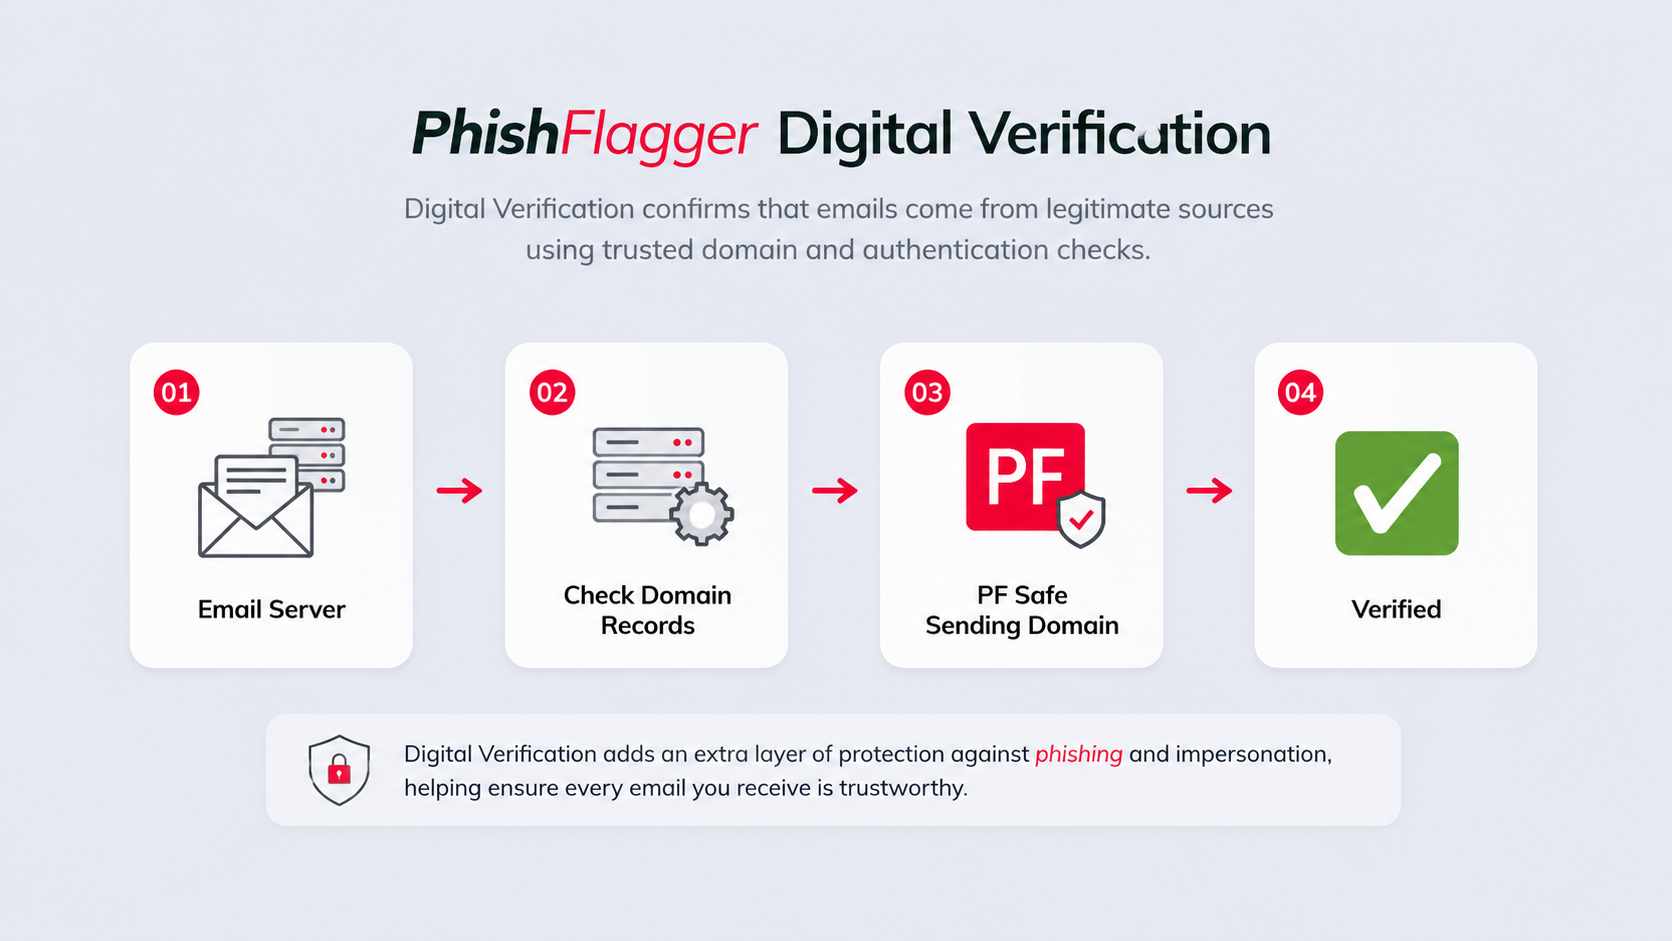
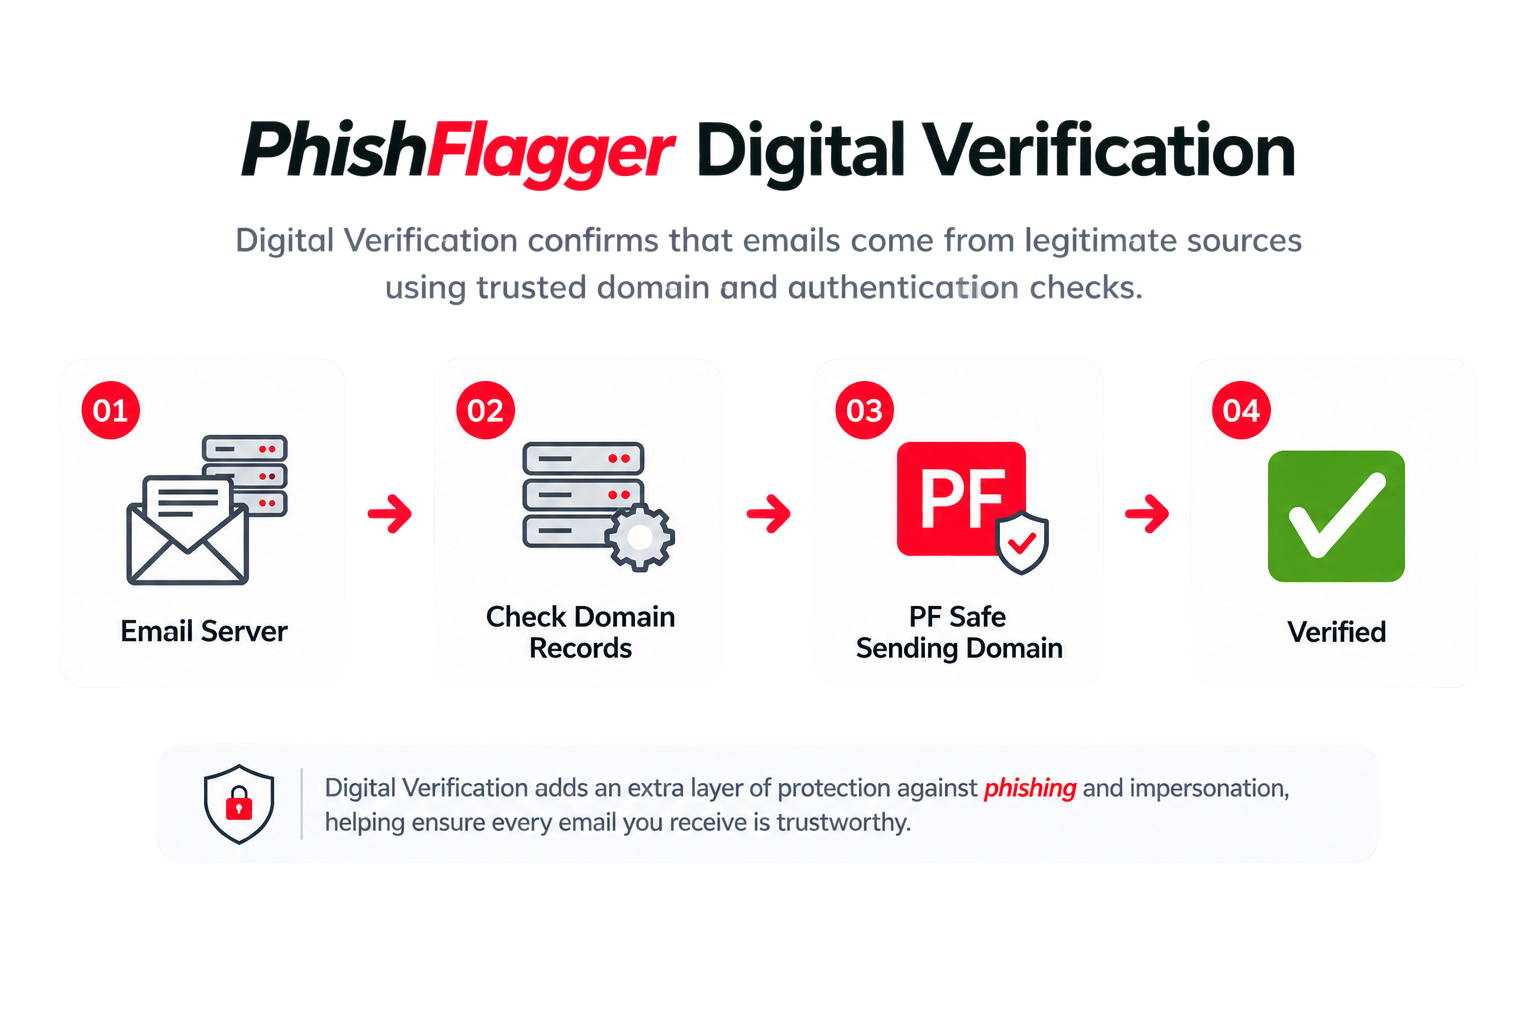
Home Section 3/4: swap placeholder boxes for real images (email auth, digital verification, human benefits, see-the-sequence) with matched shadow/crop wrapper
Claude-Session: https://claude.ai/code/session_015gE92ux7joRBqrb9DiBaXq

diff --git a/src/pages/Home.jsx b/src/pages/Home.jsx
@@ -187,37 +187,44 @@ export default function Home() {
           </p>
         </div>
 
-        {/* Middle — bullets */}
-        <div>
-          <ul className="mx-auto max-w-[420px] space-y-2 rounded-2xl bg-[#dfe3ea] p-5 text-[13px] leading-[1.45] text-ink shadow-[0_4px_10px_-4px_rgba(15,23,42,0.15)] sm:space-y-3 sm:p-5 sm:text-[15px] sm:leading-[1.4]">
-            <li className="flex gap-4">
-              <span className="mt-[11px] h-1.5 w-1.5 shrink-0 rounded-full bg-ink" />
-              <span>
-                Human-compatible solution that validates legitimate
-                communications and highlights fraud attempts.
-              </span>
-            </li>
-            <li className="flex gap-4">
-              <span className="mt-[11px] h-1.5 w-1.5 shrink-0 rounded-full bg-ink" />
-              <span>
-                Bring back common sense by adding a unique sequential
-                number, the{" "}
-                <em className="italic font-semibold">
-                  <span className="text-ink">Phish</span>
-                  <span className="text-brand">Counter</span>
-                </em>
-                , visible to the user.
-              </span>
-            </li>
-          </ul>
+        {/* Middle — PhishFlagger Human Benefits image (same wrapper/shadow/crop treatment as Section 4 images) */}
+        <div className="flex w-full flex-col items-center">
+          {/* Adjustment box — transparent, positions the card independently of the
+              image crop below. Nudge via translateY here without touching the
+              image's own crop offset or the card's shadow/clip. */}
+          <div className="w-full translate-y-0 rounded-lg shadow-[0_4px_14px_-4px_rgba(15,23,42,0.15)] transition-transform duration-300 ease-out hover:scale-[1.2]">
+            <div
+              className="w-full overflow-hidden rounded-lg"
+              style={{ aspectRatio: "1536 / 884" }}
+            >
+              <img
+                src="/assets/images/PhihsFlagger%20Human%20Benefits.png"
+                alt="PhishFlagger Human Benefits: validate communications, highlight fraud attempts, bring back common sense"
+                className="w-full max-w-none"
+                style={{ marginTop: "-4.62%" }}
+              />
+            </div>
+          </div>
         </div>
 
-        {/* Right — info box (blank frame) */}
-        <div className="flex flex-col items-center">
-          <p className="mb-4 whitespace-nowrap text-center text-[18px] font-bold leading-tight text-ink sm:text-[20px]">
-            PLACEHOLDER-HUMAN-HEADER
-          </p>
-          <div className="h-[150px] w-full max-w-[358px] rounded-2xl bg-[#dfe3ea] shadow-[0_4px_10px_-4px_rgba(15,23,42,0.15)]" />
+        {/* Right — "See the sequence" image (same wrapper/shadow/crop treatment as the other images) */}
+        <div className="flex w-full flex-col items-center">
+          {/* Adjustment box — transparent, positions the card independently of the
+              image crop below. Nudge via translateY here without touching the
+              image's own crop offset or the card's shadow/clip. */}
+          <div className="w-full translate-y-0 rounded-lg shadow-[0_4px_14px_-4px_rgba(15,23,42,0.15)] transition-transform duration-300 ease-out hover:scale-[1.2]">
+            <div
+              className="w-full overflow-hidden rounded-lg"
+              style={{ aspectRatio: "1536 / 884" }}
+            >
+              <img
+                src="/assets/images/see%20the%20sequence.png"
+                alt="See the sequence: PhishFlagger tracks the full conversation sequence so you can verify legitimacy and spot phishing"
+                className="w-full max-w-none"
+                style={{ marginTop: "-5.7%" }}
+              />
+            </div>
+          </div>
         </div>
       </div>
     </section>
@@ -260,20 +267,46 @@ export default function Home() {
 
         {/* Middle — email authentication diagram (fills the pane, matches right) */}
         <div className="flex w-full flex-col items-center">
-          <img
-            src="/assets/images/phishflagger%20email%20authentication.png"
-            alt="Email authentication: PhishFlagger, DMARC, SPF, DKIM"
-            className="w-full max-w-none object-contain"
-          />
+          {/* Adjustment box — transparent, positions the card independently of the
+              image crop below. Nudge via translateY here without touching the
+              image's own crop offset or the card's shadow/clip. */}
+          <div
+            className="w-full translate-y-0 rounded-lg shadow-[0_4px_14px_-4px_rgba(15,23,42,0.15)] transition-transform duration-300 ease-out hover:scale-[1.2]"
+          >
+            <div
+              className="w-full overflow-hidden rounded-lg"
+              style={{ aspectRatio: "1536 / 884" }}
+            >
+              <img
+                src="/assets/images/phishflagger%20email%20authentication.png"
+                alt="Email authentication: PhishFlagger, DMARC, SPF, DKIM"
+                className="w-full max-w-none"
+                style={{ marginTop: "-3.19%" }}
+              />
+            </div>
+          </div>
         </div>
 
         {/* Right — PhishFlagger Digital Verification image (fills the pane) */}
         <div className="hidden w-full flex-col items-center lg:flex">
-          <img
-            src="/assets/images/phishflagger%20digital%20verification.png"
-            alt="PhishFlagger digital verification: email server, check domain records, validate sending domain, verified"
-            className="w-full max-w-none rounded-lg object-cover shadow-[0_4px_14px_-4px_rgba(15,23,42,0.15)]"
-          />
+          {/* Adjustment box — transparent, positions the card independently of the
+              image crop below. Nudge via translateY here without touching the
+              image's own crop offset or the card's shadow/clip. */}
+          <div
+            className="w-full translate-y-0 rounded-lg shadow-[0_4px_14px_-4px_rgba(15,23,42,0.15)] transition-transform duration-300 ease-out hover:scale-[1.2]"
+          >
+            <div
+              className="w-full overflow-hidden rounded-lg"
+              style={{ aspectRatio: "1536 / 884" }}
+            >
+              <img
+                src="/assets/images/phishflagger%20digital%20verification.png"
+                alt="PhishFlagger digital verification: email server, check domain records, validate sending domain, verified"
+                className="w-full max-w-none"
+                style={{ marginTop: "-5.0%" }}
+              />
+            </div>
+          </div>
         </div>
       </div>
     </section>
